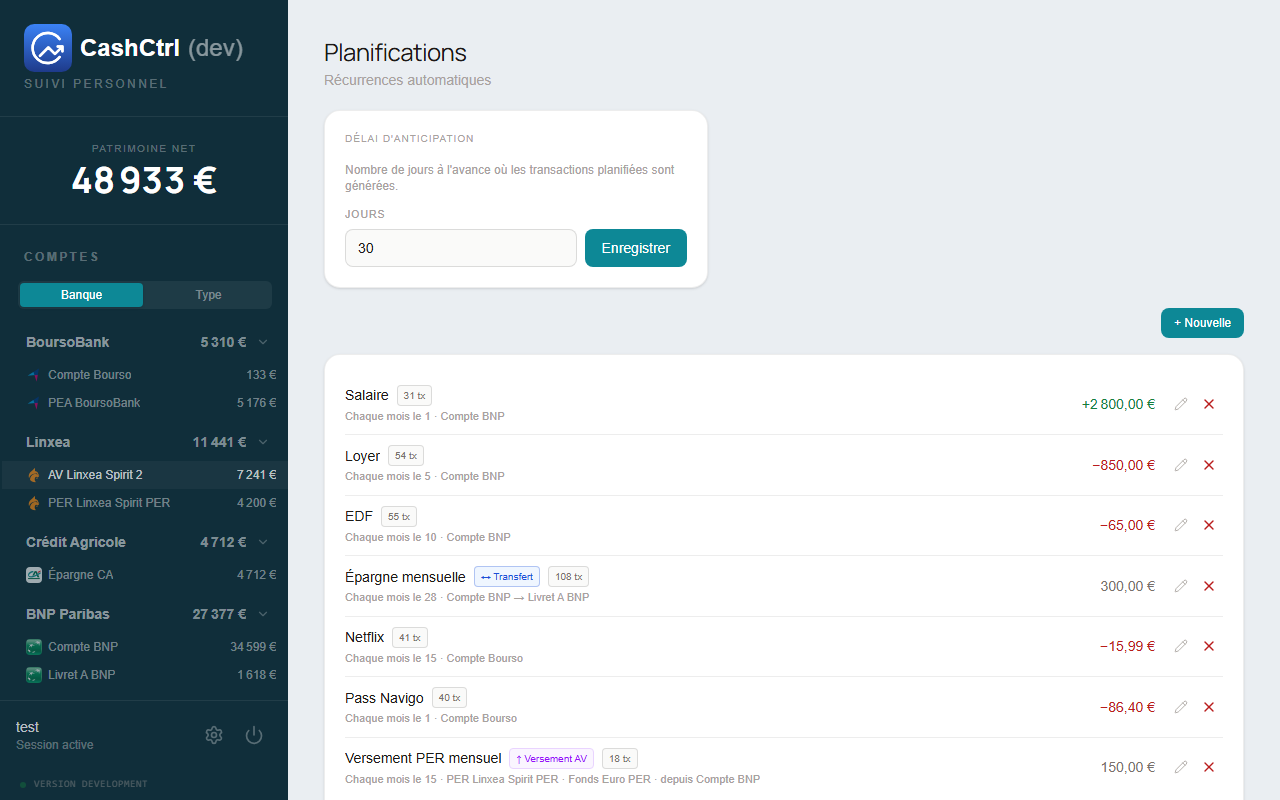
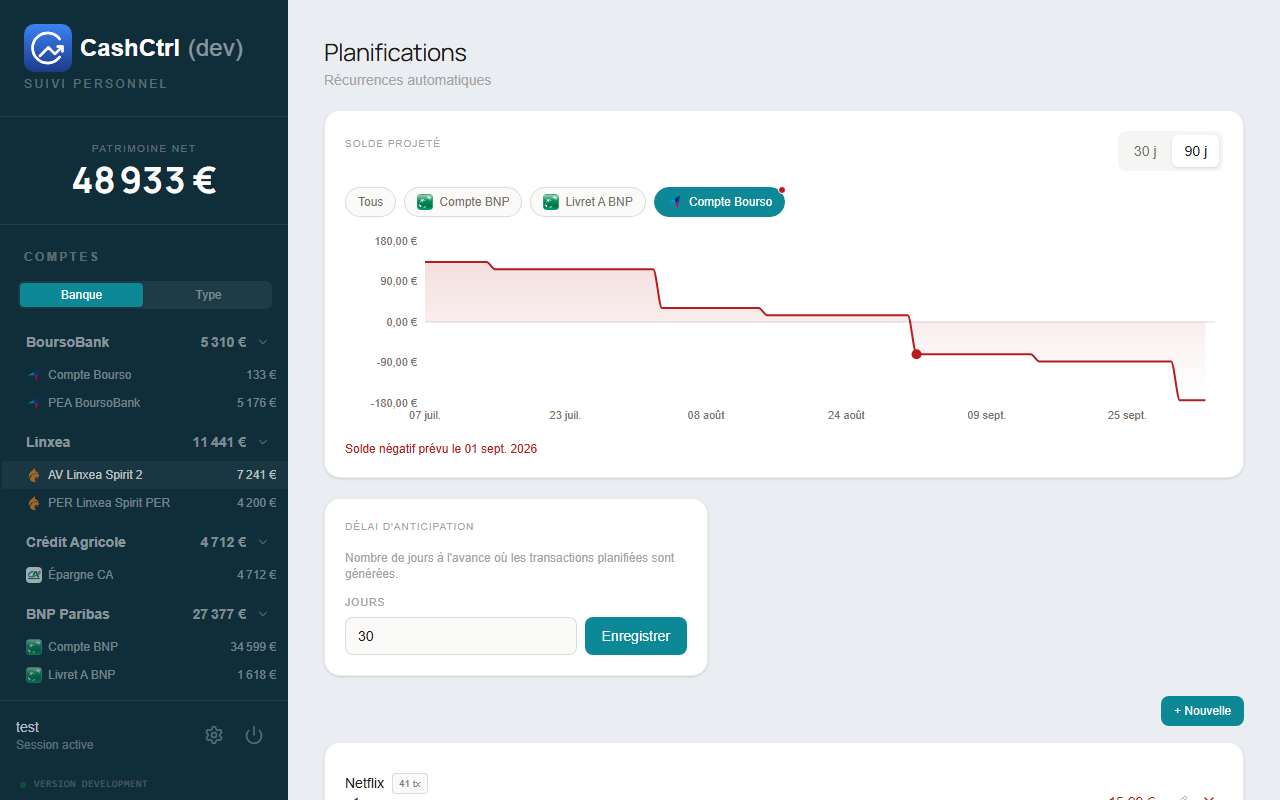
docs(readme): ajouter le prévisionnel et régénérer les screenshots
- ligne Prévisionnel dans le tableau des fonctionnalités
- capture Compte courant (prévisionnel) dans l'aperçu
- toutes les captures régénérées (clair + sombre)

diff --git a/README.md b/README.md
@@ -18,9 +18,9 @@ Application de gestion de finances personnelles — multi-comptes, transactions 
 |---|---|
 | ![Planifications](./docs/screenshots/scheduled.png) | ![Paramètres](./docs/screenshots/settings.png) |
 
-| Rapports |  |
+| Rapports | Compte courant (prévisionnel) |
 |---|---|
-| ![Rapports](./docs/screenshots/reports.png) |  |
+| ![Rapports](./docs/screenshots/reports.png) | ![Compte courant](./docs/screenshots/account-detail.png) |
 
 ### 🌗 Thème clair / sombre
 
@@ -40,6 +40,7 @@ L'interface suit la préférence système et se bascule manuellement (Clair / So
 | **Transactions** | Revenus / dépenses, catégories, sous-catégories, notes, fractionnement |
 | **Transferts** | Double écriture atomique entre comptes |
 | **Planifiées** | Récurrence flexible (jour / semaine / mois / an), gestion jours fériés |
+| **Prévisionnel** | Solde projeté à 30/90 jours (planifiées, transferts, échéances de prêts), alerte de découvert sur le dashboard, historique + projection par compte |
 | **Portefeuille** | Achats / ventes / transferts de titres, suivi PRU, prix historiques |
 | **Assurance-vie** | Supports euro/UC, versements, rachats, arbitrages, intérêts, réévaluations |
 | **Prêts** | Tableau d'amortissement, remboursements anticipés |
